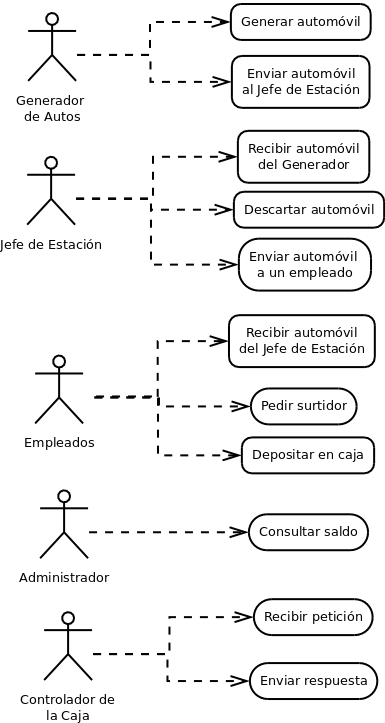
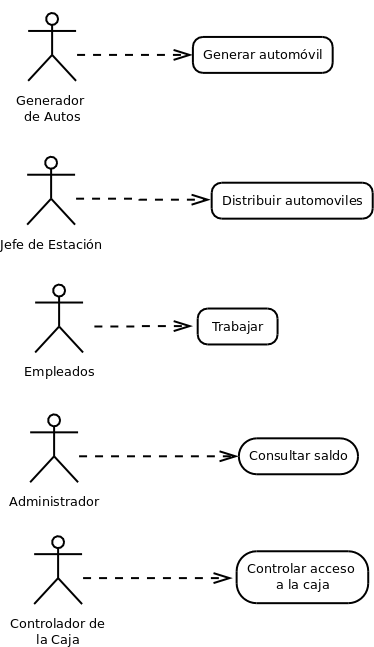
Agrego especificacion de los casos de uso

diff --git a/informe/informe.tex b/informe/informe.tex
@@ -262,6 +262,25 @@ typedef struct st_peticion {
 	petición y espera la resputa al igual que los empleados, y en dicha respuesta recibe el saldo que se 
 	encuentra en la caja.
 
+	\subsubsection{Distinción entre surtidores}
+
+	En la segunda parte del trábajo práctico, debemos realizar un cambio respecto a la asignación de surtidores,
+	ya que en la primer entrega no era necesario distinguir cual se estaba utilizando. 
+	
+	\begin{framed}
+	Se deberá poder tracear en el log de la simulación que empleado atendió a que auto y que surtidor
+	utilizó al hacerlo.
+	\end{framed}
+
+	Para la primer entrega, los surtidores estaban realizados como un semáforo de valor igual a la cantidad
+	de semáforos requerida para la simulación. Dicha implementación nos permitía controlar que no se 
+	utilizen m`as surtidores de los disponibles en determinado momento, pero no nos dejaba idenfiticar
+	cual de ellos se estaba utilizando.
+
+	La forma elegida para cumplir con la especificación solicitada, fue agregar una cola en donde se guardan
+	los surtidores, en donde cada uno esta asociado con un identificador unívoco. Los empleados desencolan
+	un surtidor, trabajan y cuando han finalizado su labor vuelven a encolar el surtidor utilizado. De esta manera, si un empleado quiere trabajar y no un surtidor libre que pueda utilizar, se quedar`a esperando en la cola hasta que uno se libere.
+
 	\subsubsection{Comunicación Generador - Jefe de estación}
 
 	A continuación detallemos otra de las modificaciones realizadas, esta vez para cumplir con el siguiente requerimiento:
@@ -306,6 +325,204 @@ typedef struct st_peticion {
 	\includegraphics[scale=0.50]{casos_de_uso.png}
 	\centering
 	\end{figure}
+
+    \begin{tabular}{|p{4cm}|p{12cm}|}
+    \hline
+    \textbf{Caso de uso:} & Generar auto \\
+    \hline
+    \textbf{Descripcion:} &  Crea el automovil que se dirige a la estacion\\
+    \hline
+    \textbf{Actores participantes:} & Generador de autos  \\
+    \hline
+ 
+    \textbf{Pre-condiciones:} &  El proceso principal inicializo los recursos utilizados\\
+    \hline
+    \hline
+    \textbf{Flujos:} &\\
+    \hline
+	\textbf{Flujo Principal:} &\\ 
+
+	\hline
+	1 & El generador utiliza un numero aleatorio para determinar si el auto creado sera VIP o regular\\
+    \hline
+	2 & El generador asigna un ID autoincremental al automovil creado\\
+    \hline
+	3 & El generador crea un struct con los datos del automovil creado\\
+    \hline
+	4 & El generador escribe en la cola el struct mencionado anteriomente\\
+    \hline
+	5 & El generador duerme un tiempo constante (configurable) antes de enviar otro automovil\\
+    \hline
+    \hline
+	\textbf{Flujos de excepción:} & Se recibio una señal que cambia la condicion del while que ejecuta el proceso. En la proxima iteracion se saldra del ciclo y terminara el proceso.\\
+    \hline
+	\textbf{Post-condiciones:} & Se encolo un automovil en la cola que comparten el generador y el jefe de estacion\\
+	\hline
+	\end{tabular}
+
+	\newpage
+
+	\begin{tabular}{|p{4cm}|p{12cm}|}
+    \hline
+    \textbf{Caso de uso:} & Distribuir automoviles \\
+    \hline
+    \textbf{Descripcion:} &  Despacha automoviles hacia los empleados o la salida\\
+    \hline
+    \textbf{Actores participantes:} & Jefe de estacion  \\
+    \hline
+ 
+    \textbf{Pre-condiciones:} &  El proceso principal inicializo los recursos utilizados. Existe 
+    al menos un auto encolado por el generador.\\
+    \hline
+    \hline
+    \textbf{Flujos:} &\\
+    \hline
+	\textbf{Flujo Principal:} &\\ 
+
+	\hline
+	1 & El JDE desencola un auto\\
+	\hline
+	2 & Consulta la variable en memoria compartida que tiene la cantidad de empleados disponibles\\
+	\hline
+	3 & El generador crea un struct con los datos del automovil creado\\
+	\hline
+	4 & Existe un empleado disponible
+		\begin{itemize}
+			\item Enviar automovil por el FIFO entre JDE y empleados 
+		\end{itemize}
+		\\
+	\hline
+	5 & No existe un empleado disponible
+		\begin{itemize}
+			\item Se descarta el automovil
+		\end{itemize}
+		\\
+	\hline
+	\hline
+	\textbf{Flujos de excepción:} & Se recibio una señal que cambia la condicion del while que ejecuta el proceso. En la proxima iteracion se saldra del ciclo y terminara el proceso.\\
+    \hline
+
+    \hline
+	\textbf{Post-condiciones:} & Se desencolo un automovil de la cola compartida entre el generador y el JDE.\\
+	\hline
+	\end{tabular}
+
+	\newpage
+
+	\begin{tabular}{|p{4cm}|p{12cm}|}
+    \hline
+    \textbf{Caso de uso:} & Empleado trabajando \\
+    \hline
+    \textbf{Descripcion:} &  Ciclo de trabajo del empleado\\
+    \hline
+    \textbf{Actores participantes:} & Empleado\\
+    \hline
+ 
+    \textbf{Pre-condiciones:} &  El proceso principal inicializo los recursos utilizados. El empleado tiene un auto leido del FIFO compartido con el JDE\\
+    \hline
+    \hline
+    \textbf{Flujos:} &\\
+    \hline
+	\textbf{Flujo Principal:} &\\ 
+
+	\hline
+	1 & El empleado decrementa la variable que representa la cantidad de empleados disponibles\\
+	\hline
+	2 & El empleado se queda leyendo de la cola de surtidores hasta poder conseguir uno\\
+	\hline
+	3 & Calcula el tiempo a trabajar a partir del dinero que tiene el automovil\\
+	\hline
+	4 & Duerme el tiempo calculado\\
+	\hline
+	4 & Envia una solicitud para depositar el dinero en la caja (escribiendo en la cola) \\
+	\hline
+	5 & Lee en la cola hasta recibir la respuesta de que su solicitud fue exitosa (y asi simula la espera en la caja)\\
+	\hline
+	6 & Encola el struct que representa al surtidor utilizado, dejandolo libre para que lo use otro empleado\\
+	\hline
+	7 & Aumenta la cantidad de empleados disponibles\\
+	\hline
+	\hline
+	\textbf{Flujos de excepción:} & Se recibio una señal que cambia la condicion del while que ejecuta el proceso. En la proxima iteracion se saldra del ciclo y terminara el proceso.\\
+    \hline
+
+    \hline
+	\textbf{Post-condiciones:} & Se leyo un automovil del FIFO\\
+	\hline
+	\end{tabular}
+
+	\newpage
+
+	\begin{tabular}{|p{4cm}|p{12cm}|}
+    \hline
+    \textbf{Caso de uso:} & Consultar saldo de la caja \\
+    \hline
+    \textbf{Descripcion:} &  El administrador consulta el saldo depositado hasta el momento\\
+    \hline
+    \textbf{Actores participantes:} & Administrador\\
+    \hline
+ 
+    \textbf{Pre-condiciones:} &  El proceso principal inicializo los recursos utilizados\\
+    \hline
+    \hline
+    \textbf{Flujos:} &\\
+    \hline
+	\textbf{Flujo Principal:} &\\ 
+
+	\hline
+	1 & Envia peticion de deposito para la caja, con saldo 0 para depositar\\
+	\hline
+	2 & Espera para desencolar la respuesta con el saldo de la caja\\
+	\hline
+	3 & Escribe en el log el saldo de la caja\\
+	\hline
+	4 & Duerme un tiempo constante (configurable)\\
+	\hline
+	\textbf{Flujos de excepción:} & Se recibio una señal que cambia la condicion del while que ejecuta el proceso. En la proxima iteracion se saldra del ciclo y terminara el proceso.\\
+    \hline
+
+    \hline
+	\textbf{Post-condiciones:} & Se escribio en el log el saldo de la caja\\
+	\hline
+	\end{tabular}
+
+	\newpage
+
+	\begin{tabular}{|p{4cm}|p{12cm}|}
+    \hline
+    \textbf{Caso de uso:} & Controlar acceso a la caja \\
+    \hline
+    \textbf{Descripcion:} &  El proceso caja administra las solicitudes que recibe para depositar dinero\\
+    \hline
+    \textbf{Actores participantes:} & Proceso caja\\
+    \hline
+ 
+    \textbf{Pre-condiciones:} &  El proceso principal inicializo los recursos utilizados\\
+    \hline
+    \hline
+    \textbf{Flujos:} &\\
+    \hline
+	\textbf{Flujo Principal:} &\\ 
+
+	\hline
+	1 & Espera peticion para depositar en la caja\\
+	\hline
+	2 & Desencola la peticion entrante\\
+	\hline
+	3 & Suma en la variable local al proceso el monto recibido\\
+	\hline
+	4 & Genera una peticion de respuesta con el valor actual de la caja\\
+	\hline
+	5 & Envia la peticion dirigida al proceso que hizo el deposito\\
+	\hline
+	\hline
+	\textbf{Flujos de excepción:} & Se recibio una señal que cambia la condicion del while que ejecuta el proceso. En la proxima iteracion se saldra del ciclo y terminara el proceso.\\
+    \hline
+
+    \hline
+	\textbf{Post-condiciones:} & Se deposito en la caja el monto recibido, y se devolvio el saldo actual\\
+	\hline
+	\end{tabular}
 
 	\newpage
 	\subsection{Diagrama de estados del proceso Empleado}

diff --git a/informe/title.tex b/informe/title.tex
@@ -15,7 +15,7 @@
 \vfill
 \includegraphics[scale=1.25]{./logo.png}~\\[2cm]
 %\HRule \\[1.5cm]
-{ \huge \bfseries Trabajo Práctico Nº 1}\\%[0.25cm]
+{ \huge \bfseries Trabajo Práctico: ConcuStation}\\%[0.25cm]
 \vfill
 %{ \huge \bfseries Grupo 8}\\%[0.25cm]
 %\vfill
